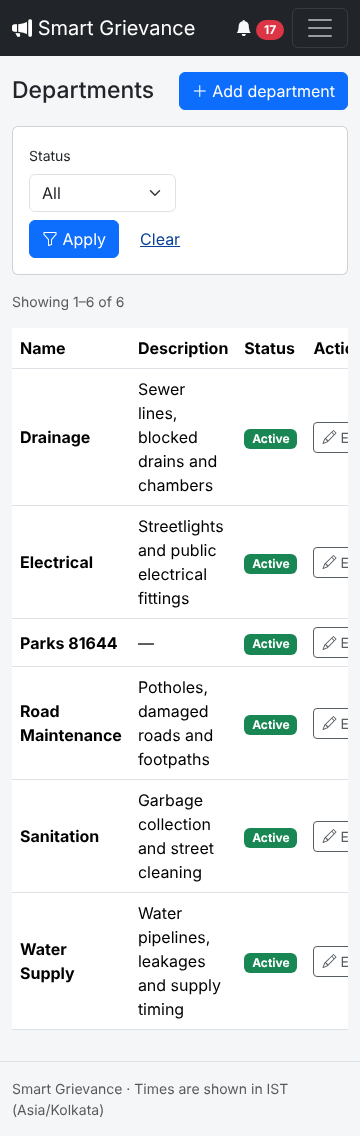
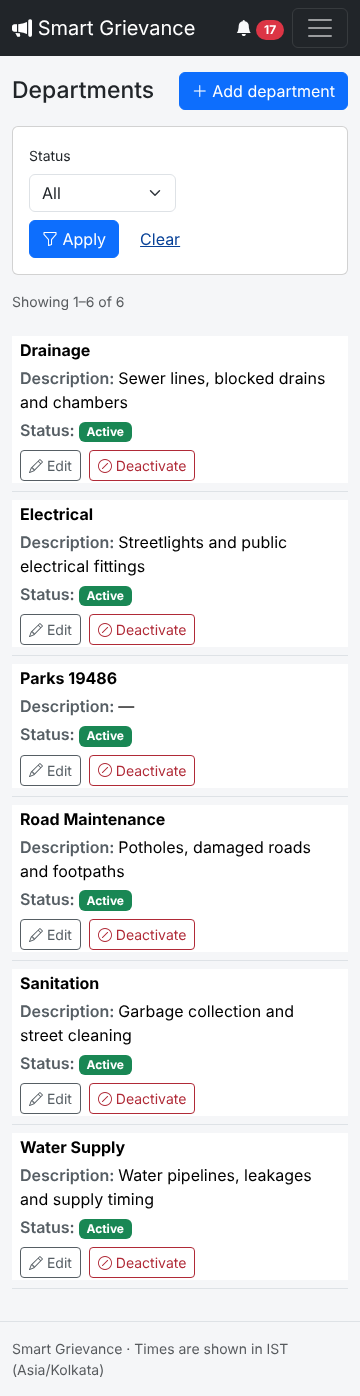
Fix admin tables on phones (V-3) and update validation documents
- Below 576 px the officer, citizen, department, category and area lists
  and the dashboard overdue list stack as labelled cards; action buttons
  wrap and stay on screen (D129, doc 10)
- TC-NF-04 and the walkthrough now fail when a table scrolls sideways or a
  link/button is off screen; quality sweep includes the admin lists
- Validation report, screenshots and results re-generated after all fixes
  (walkthrough 94/94); test report, changelog and decisions log updated

Claude-Session: https://claude.ai/code/session_011U9gUeiZpNCuo9rcRkJAzF

diff --git a/app/src/main/resources/templates/fragments/admin-users.html b/app/src/main/resources/templates/fragments/admin-users.html
@@ -41,7 +41,7 @@
     <p th:replace="~{fragments/admin-controls :: count(${page})}"></p>
     <p th:if="${page.items.isEmpty()}" th:text="${'No ' + title.toLowerCase() + ' match the current filters.'}"></p>
     <div class="table-responsive" th:unless="${page.items.isEmpty()}">
-        <table class="table table-hover align-middle">
+        <table class="table table-hover align-middle table-stack">
             <caption class="visually-hidden" th:text="${title}"></caption>
             <thead><tr>
                 <th scope="col">Name</th>
@@ -54,18 +54,18 @@
             <tbody>
             <tr th:each="row : ${page.items}" th:with="itemUrl=${base + '/' + row.id}">
                 <th scope="row" th:text="${row.fullName}"></th>
-                <td th:text="${row.email}"></td>
-                <td>
+                <td data-label="Email" class="text-break" th:text="${row.email}"></td>
+                <td data-label="Mobile">
                     <span th:text="${row.mobile}"></span>
                     <span th:if="${!staff and !row.mobileVerified}" class="badge text-bg-warning">
                         <i class="bi bi-phone" aria-hidden="true"></i> Not verified
                     </span>
                 </td>
-                <td th:if="${staff}" th:text="${row.departmentName ?: '—'}"></td>
-                <td th:unless="${staff}" th:text="${@fmt.date(row.createdAt.toLocalDate())}"></td>
-                <td><span th:replace="~{fragments/admin-controls :: status(${row.active})}"></span></td>
-                <td class="text-nowrap">
-                    <div class="d-flex gap-2">
+                <td th:if="${staff}" data-label="Department" th:text="${row.departmentName ?: '—'}"></td>
+                <td th:unless="${staff}" data-label="Registered" th:text="${@fmt.date(row.createdAt.toLocalDate())}"></td>
+                <td data-label="Status"><span th:replace="~{fragments/admin-controls :: status(${row.active})}"></span></td>
+                <td class="text-nowrap table-stack-actions">
+                    <div class="d-flex flex-wrap gap-2">
                         <a th:if="${staff}" class="btn btn-sm btn-outline-secondary" th:href="@{${itemUrl + '/edit'}}">
                             <i class="bi bi-pencil" aria-hidden="true"></i> Edit
                         </a>

diff --git a/app/src/main/resources/templates/admin/dashboard.html b/app/src/main/resources/templates/admin/dashboard.html
@@ -52,10 +52,10 @@
                 </div>
                 <p class="card-body pt-0 mb-0 text-body-secondary" th:if="${dash.overdue.isEmpty()}">No overdue complaints.</p>
                 <div class="table-responsive" th:unless="${dash.overdue.isEmpty()}">
-                    <table class="table table-sm mb-0 table-complaints">
+                    <table class="table table-sm mb-0 table-complaints table-stack">
                         <thead class="table-light"><tr>
                             <th scope="col">Complaint</th>
-                            <th scope="col" class="d-none d-sm-table-cell">Department</th>
+                            <th scope="col">Department</th>
                             <th scope="col">Status</th>
                             <th scope="col" class="text-end"><abbr title="Days since submission / SLA days">Days / SLA</abbr></th>
                         </tr></thead>
@@ -63,11 +63,11 @@
                         <tr th:each="item : ${dash.overdue}">
                             <td><a class="complaint-no" th:href="@{/complaints/{no}(no=${item.complaintNo})}" th:text="${item.complaintNo}">GRV</a>
                                 <div class="small text-body-secondary" th:text="${item.title}">Title</div></td>
-                            <td class="d-none d-sm-table-cell">
+                            <td data-label="Department">
                                 <span th:if="${item.departmentName != null}" th:text="${item.departmentName}">Department</span>
                                 <em th:unless="${item.departmentName != null}">Not assigned</em></td>
-                            <td><span th:replace="~{fragments/status-badge :: badge(${item.status})}"></span></td>
-                            <td class="text-end"><span class="badge-status badge-overdue"
+                            <td data-label="Status"><span th:replace="~{fragments/status-badge :: badge(${item.status})}"></span></td>
+                            <td class="text-end" data-label="Days / SLA"><span class="badge-status badge-overdue"
                                     th:text="|${item.daysElapsed} / ${item.slaDays}|"
                                     th:title="|${item.daysOverdue} days overdue|">0 / 0</span></td>
                         </tr>

diff --git a/app/src/main/resources/templates/fragments/admin-master.html b/app/src/main/resources/templates/fragments/admin-master.html
@@ -20,7 +20,7 @@
     <p th:if="${page.items.isEmpty()}" th:text="${filter.active == null
             ? 'No ' + title.toLowerCase() + ' yet.' : 'No ' + title.toLowerCase() + ' match the filter.'}"></p>
     <div class="table-responsive" th:unless="${page.items.isEmpty()}">
-        <table class="table table-hover align-middle">
+        <table class="table table-hover align-middle table-stack">
             <caption class="visually-hidden" th:text="${title}"></caption>
             <thead><tr>
                 <th scope="col">Name</th>
@@ -31,16 +31,16 @@
             </tr></thead>
             <tbody><tr th:each="row : ${page.items}" th:with="itemUrl=${base + '/' + row.id}">
                 <th scope="row" th:text="${row.name}"></th>
-                <td th:if="${kind == 'category'}">
+                <td th:if="${kind == 'category'}" data-label="Default department">
                     <span th:text="${row.defaultDepartmentName ?: 'Admin decides'}"></span>
                     <span class="badge text-bg-warning"
                           th:if="${row.defaultDepartmentName != null and !row.defaultDepartmentActive}">Inactive</span>
                 </td>
-                <td th:unless="${kind == 'category'}" th:text="${row.description ?: '—'}"></td>
-                <td th:if="${kind == 'category'}" th:text="${row.slaDays}"></td>
-                <td><span th:replace="~{fragments/admin-controls :: status(${row.active})}"></span></td>
-                <td class="text-nowrap">
-                    <div class="d-flex gap-2">
+                <td th:unless="${kind == 'category'}" th:attr="data-label=${kind == 'area' ? 'Ward office' : 'Description'}" th:text="${row.description ?: '—'}"></td>
+                <td th:if="${kind == 'category'}" data-label="SLA days" th:text="${row.slaDays}"></td>
+                <td data-label="Status"><span th:replace="~{fragments/admin-controls :: status(${row.active})}"></span></td>
+                <td class="text-nowrap table-stack-actions">
+                    <div class="d-flex flex-wrap gap-2">
                         <a class="btn btn-sm btn-outline-secondary" th:href="@{${itemUrl + '/edit'}}">
                             <i class="bi bi-pencil" aria-hidden="true"></i> Edit
                         </a>

diff --git a/app/e2e/tests/quality.spec.ts b/app/e2e/tests/quality.spec.ts
@@ -32,6 +32,11 @@ const screens: Screen[] = [
   { user: 'anita.deshmukh@example.com', path: `/officer/complaints/${original}/resolve` },
   { user: 'admin@example.com', password: 'Admin@1234', path: '/admin/dashboard' },
   { user: 'admin@example.com', password: 'Admin@1234', path: '/admin/complaints' },
+  { user: 'admin@example.com', password: 'Admin@1234', path: '/admin/officers' },
+  { user: 'admin@example.com', password: 'Admin@1234', path: '/admin/citizens' },
+  { user: 'admin@example.com', password: 'Admin@1234', path: '/admin/departments' },
+  { user: 'admin@example.com', password: 'Admin@1234', path: '/admin/categories' },
+  { user: 'admin@example.com', password: 'Admin@1234', path: '/admin/areas' },
 ];
 
 test('TC-NF-03, TC-NF-04, TC-SEC-30a the main screens are accessible, fit the viewport and keep the CSP', async ({ page, javaScriptEnabled }, testInfo) => {
@@ -54,6 +59,16 @@ test('TC-NF-03, TC-NF-04, TC-SEC-30a the main screens are accessible, fit the vi
 
     const overflow = await page.evaluate(() => document.documentElement.scrollWidth - window.innerWidth);
     expect(overflow, `sideways scroll on ${where}`).toBeLessThanOrEqual(0);
+    const offscreen = await page.evaluate(() => {
+      const width = window.innerWidth;
+      const clipped = [...document.querySelectorAll('main .table-responsive')].filter((el) => el.scrollWidth > el.clientWidth + 1).length;
+      const hidden = [...document.querySelectorAll('main a, main button')]
+        .filter((el) => el.offsetParent !== null && el.getBoundingClientRect().right > width + 1)
+        .map((el) => el.textContent.trim().replace(/\s+/g, ' ').slice(0, 40));
+      return { clipped, hidden };
+    });
+    expect(offscreen.clipped, `tables scrolling sideways on ${where}`).toBe(0);
+    expect(offscreen.hidden, `links/buttons off screen on ${where}`).toEqual([]);
     // the verify page uses the public layout without a navbar
     if (screen.user && screen.path !== '/verify-mobile' && page.viewportSize()!.width <= 400) {
       await expect(page.getByRole('link', { name: /^Notifications,/ }), `bell on ${where}`).toBeVisible();

diff --git a/app/src/main/resources/static/css/app.css b/app/src/main/resources/static/css/app.css
@@ -238,3 +238,15 @@ form.is-submitting [type=submit] { pointer-events: none; opacity: .65; }
 .btn-outline-secondary { --bs-btn-color: #565e64; --bs-btn-border-color: #565e64; }
 .btn-outline-success { --bs-btn-color: #146c43; --bs-btn-border-color: #146c43; }
 .btn-outline-danger { --bs-btn-color: #b02a37; --bs-btn-border-color: #b02a37; }
+
+/* Phone layout for admin tables (NFR-20, extends D51): below 576 px each row becomes a labelled card so every
+   column and the action buttons stay on screen instead of scrolling sideways. Labels come from data-label. */
+@media (max-width: 575.98px) {
+  .table-stack thead { position: absolute; width: 1px; height: 1px; overflow: hidden; clip-path: inset(50%); white-space: nowrap; }
+  .table-stack, .table-stack tbody, .table-stack tr, .table-stack th, .table-stack td { display: block; width: 100%; }
+  .table-stack tr { border-bottom: 1px solid var(--bs-border-color); padding: .5rem 0; }
+  .table-stack th, .table-stack td { border: 0; padding: .125rem .5rem; text-align: start !important; }
+  .table-stack td[data-label]::before { content: attr(data-label) ": "; font-weight: 600; color: #565e64; }
+  .table-stack td { overflow-wrap: anywhere; }
+  .table-stack .table-stack-actions { white-space: normal !important; padding-top: .375rem; }
+}

diff --git a/docs/validation/validation-report.md b/docs/validation/validation-report.md
@@ -5,15 +5,15 @@
 | Date | 23-Nov-2026 |
 | Code | `main` at `5f64d48` (merge of #10) plus the two fixes below |
 | Environment | JDK 25.0.5, MySQL 8.0, Chromium (Playwright 1.65), Linux |
-| Result | **All automated suites green; independent walkthrough 94/94 checks; 2 defects found and fixed** |
+| Result | **All automated suites green; independent walkthrough 94/94 checks; 3 defects found and fixed, then re-validated** |
 
 ## 1. How the project was validated
 
 | Layer | What ran | Result |
 |---|---|---|
-| Automated, H2 | `./mvnw clean verify`: unit, repository, web, HTTP and scan tests + JaCoCo gates | **1,403 passed**, 0 failed, coverage gates met |
+| Automated, H2 | `./mvnw clean verify`: unit, repository, web, HTTP and scan tests + JaCoCo gates | **1,403 passed**, 0 failed, coverage gates met (after all fixes) |
 | Automated, MySQL | `./mvnw verify -Pmysql`: every query test class on MySQL, concurrency, unique keys, 10,000-complaint performance and `EXPLAIN` | **117 passed**, 0 failed; every page under 100 ms median at 10k complaints |
-| Automated, browser | `./mvnw verify -Pe2e`: Playwright, JavaScript on and off, 360 and 1280 px, axe-core, CSP | **81 passed**, 15 skipped (JS-only or no-JS-only checks), 0 failed |
+| Automated, browser | `./mvnw verify -Pe2e`: Playwright, JavaScript on and off, 360 and 1280 px, axe-core, CSP, off-screen controls | **81 passed**, 15 skipped (JS-only or no-JS-only checks), 0 failed (after all fixes) |
 | Independent walkthrough | [`walkthrough.mjs`](walkthrough.mjs) against the packaged JAR with the `dev` profile on MySQL and the Appendix A demo data, exactly as at the viva: use case by use case, error by error, screen by screen | **94/94 passed** ([raw results](walkthrough-results.json)) |
 
 The walkthrough is independent of the automated suites: it drives the real browser through the UI the way a citizen, officer and administrator would, on MySQL rather than H2, and checks the visible result of every step.
@@ -22,7 +22,7 @@ The walkthrough is independent of the automated suites: it drives the real brows
 
 | UC | Flow checked | Result | Evidence |
 |---|---|:-:|---|
-| UC-01 | Register as citizen (main + duplicate email + weak password) | ✅ | registered priya.1795424181644@example.com; field errors for taken email and short password |
+| UC-01 | Register as citizen (main + duplicate email + weak password) | ✅ | registered priya.1795425819486@example.com; field errors for taken email and short password |
 | UC-04 | Verify mobile with OTP (wrong code, resend cooldown, correct code) | ✅ | wrong code counted down; resend disabled and refused by the server inside the cooldown; correct code verified |
 | UC-02 | Log in / log out (role landing, wrong password, inactive, lockout, logout) | ✅ | three roles land on their homes; generic error for wrong password and inactive officer; lockout after 5 failures |
 | UC-03 | Change own password (wrong current, mismatch, success, old password rejected) | ✅ | errors shown for wrong current / mismatch; new password works, old refused |
@@ -42,9 +42,9 @@ The walkthrough is independent of the automated suites: it drives the real brows
 | UC-32 | Add progress remark | ✅ |  |
 | UC-33 | Resolve (with work-done file) and optimistic-lock conflict on a stale form | ✅ | first resolve wins; second (stale version) gets the "updated by someone else" message |
 | UC-34 | Send complaint back to the admin (wrong department) | ✅ | GRV-2026-000005 back to Under Review; Drainage officer loses access (404) |
-| UC-22 | Reject (reason required; officer rejection is covered by TC-UC-22b/c) | ✅ | GRV-2026-000008 rejected with a reason; owner sees Rejected |
-| UC-40/41/42 | Manage departments, categories, areas (create, duplicate name, deactivate, guard) | ✅ | Parks 81644 + category created; duplicate name refused; deactivating a default department refused |
-| UC-43 | Manage officer accounts (create, duplicate email, login as new officer) | ✅ | officer.1795424181644@example.com created after a duplicate-email error and can log in to the Water Supply queue |
+| UC-22 | Reject (reason required) (reason required; officer rejection is covered by TC-UC-22b/c) | ✅ | GRV-2026-000008 rejected with a reason; owner sees Rejected |
+| UC-40/41/42 | Manage departments, categories, areas (create, duplicate name, deactivate, guard) | ✅ | Parks 19486 + category created; duplicate name refused; deactivating a default department refused |
+| UC-43 | Manage officer accounts (create, duplicate email, login as new officer) | ✅ | officer.1795425819486@example.com created after a duplicate-email error and can log in to the Water Supply queue |
 | UC-44 | Manage citizen accounts (deactivate → login refused, reactivate, reset password) | ✅ | deactivated citizen cannot log in; reactivated; admin reset password works |
 | UC-50 | Admin dashboard and reports (cards link to matching lists, CSV export) | ✅ | Total 13 = CSV rows; Pending card 2 opens matching list; chart rendered |
 | UC-51 | Officer summary cards | ✅ | Assigned 0 · In Progress 1 · Reopened 0 · Awaiting citizen 0 · Closed 0 · Rejected 0 · Duplicate 2 · Withdrawn 0 · Overdue 0 |
@@ -70,7 +70,7 @@ The walkthrough is independent of the automated suites: it drives the real brows
 
 ## 4. Screens
 
-Every screen of doc 10 was opened at 1280 px and 360 px. Each check asserts: the page renders, **no sideways scroll**, **no JavaScript error**, **no CSP violation**, and at 1280 px **0 axe-core violations** (WCAG 2.1 A/AA). SCR-92 (500 page) is covered by TC-VE-14 because a running build has no safe way to raise a server error.
+Every screen of doc 10 was opened at 1280 px and 360 px. Each check asserts: the page renders, **no sideways scroll**, **no table that has to be scrolled sideways and no link or button off screen** (added after V-3), **no JavaScript error**, **no CSP violation**, and at 1280 px **0 axe-core violations** (WCAG 2.1 A/AA). SCR-92 (500 page) is covered by TC-VE-14 because a running build has no safe way to raise a server error.
 
 | Screen | Page | 1280 px | 360 px | Screenshots |
 |---|---|:-:|:-:|---|
@@ -107,9 +107,10 @@ Every screen of doc 10 was opened at 1280 px and 360 px. Each check asserts: the
 | # | Defect | Severity | Found by | Fix | Regression test |
 |---|---|---|---|---|---|
 | V-1 | **Edit revisions were not shown in the timeline (FR-17).** The "Complaint edited" entry rendered an empty list, so neither the citizen nor staff could see which field changed or its old and new value; the revisions were stored correctly. Cause: `th:switch` on the same `<li>` as `th:each` in `fragments/timeline.html` left every item empty. | Medium (requirement not visible to users) | UC-11 walkthrough | `th:if` conditions instead of the switch | `TimelineRevisionWebTest` (TC-UC-11a, FR-17): fails before, passes after |
+| V-3 | **Admin tables were cut off on phones (NFR-20).** At 360 px the officer, citizen, department, category and area lists showed only the first columns; the status and every action button (Edit, Deactivate, Reset password) were off screen and reachable only by scrolling the table sideways, and long emails were cut. The dashboard's overdue table clipped its "Days / SLA" column. Found by looking at the walkthrough screenshots; the earlier automated check only measured page-level scrolling, which a `.table-responsive` hides. | Medium (admin work on a phone was impractical) | Screenshot review of SCR-40, 44, 48, 50 at 360 px | Below 576 px these tables stack each row as a labelled card and wrap the action buttons (`.table-stack`, `data-label`, D129) | New off-screen check in TC-NF-04 (`quality.spec.ts`, now also sweeping the five admin lists) and in the walkthrough: on the old build it reported 24 hidden controls on Officers, 11 on Citizens, 14 on Categories and a clipped dashboard table; 0 after the fix |
 | V-2 | **An encoded slash (`%2F`) in the URL got Tomcat's plain "HTTP Status 400" page** instead of the application's 400 page used for every other rejected request (doc 12 D85). No information was leaked and the request was refused either way. | Low (consistency) | E-400 walkthrough | `TomcatConfig` passes `%2F` through so Spring Security's firewall rejects it and the app's page is shown | `CookieAndFirewallHttpTest` TC-SEC-33 (encoded slash, encoded `..`, double slash): fails before, passes after |
 
-The automated suites had missed both: no test checked the rendered change text of an edit, and the firewall test did not use an encoded slash.
+The automated suites had missed all three: no test checked the rendered change text of an edit, the firewall test did not use an encoded slash, and the phone-layout check looked only at page-level scrolling.
 
 ## 6. Behaviour confirmed as designed (not defects)
 

diff --git a/docs/specs/10-ui-screen-spec.md b/docs/specs/10-ui-screen-spec.md
@@ -33,6 +33,7 @@ This document says what every user sees. It builds only on the routes, view name
 | Works from **360 px** wide to desktop | Bootstrap 5.3.8 grid, `container-lg`, breakpoints `sm` 576, `md` 768, `lg` 992. Every page is designed for 360 px first, then widened. |
 | No horizontal page scroll at 360 px | Long values (`overflow-wrap: anywhere` on titles and remarks), complaint numbers and dates kept on one line. Wide admin tables sit in `.table-responsive`, so only the table scrolls, never the page. Checked on the mock-ups (§10). |
 | Complaint lists | **Stacked list** (`list-group`) below `md`, **table** from `md` up, both rendered by the same fragment loop (D51). |
+| Admin tables (SCR-42, 44, 46, 48, 50, SCR-40 overdue list) | Below `sm` (576 px) each row is shown as a labelled card (`.table-stack`, labels from `data-label`) with its action buttons wrapping underneath; a normal table from `sm` up (D129). No table may scroll sideways on a phone. |
 | Touch targets | Buttons and links in lists at least 44 × 44 px on phones (`.btn` default size; the whole list item is the link). Action buttons wrap two per row on phones (`.action-bar`). |
 | Navbar | `navbar-expand-md`: collapsed behind a toggler on phones. The bell stays visible next to the toggler at every width. |
 
@@ -1427,3 +1428,4 @@ Run on 2026-11-22. All scripts are kept under `docs/specs/verify/` so they can b
 | 2026-11-23 | Doc 12 alignment: U3, U4, U5 decided (D77, D83, D85, D87); where texts live (§8.1) |
 | 2026-11-23 | Doc 13 alignment: U7, U8, U10 decided (D99) |
 | 2026-11-23 | Doc 14 alignment: U9 decided (D109, D110) |
+| 2026-11-23 | Validation finding V-3: admin tables stack as labelled cards below 576 px so actions stay on screen (D129) |

diff --git a/docs/specs/00-specification-plan.md b/docs/specs/00-specification-plan.md
@@ -202,6 +202,7 @@ arya_project/
 | D125 | In which order is the app built? | Ten milestones **M0–M9** (skeleton/CI, auth+OTP, master data, submit/edit/withdraw+files, tracking, workflow, duplicates/watchers, notifications, dashboard/reports, hardening/e2e/viva); every one of the 446 test cases, 70 FRs and 99 routes belongs to exactly one milestone, checked by `verify/check-14-milestones.py`. `TransitionRules` and `ComplaintAccessPolicy` are written complete in M3; `DemoData` grows per milestone and is complete in M6. |
 | D126 | JVM options, port, context path? | `-Xms128m` (laptop) / `256m` (server), `-Xmx512m`, `-XX:+ExitOnOutOfMemoryError` (server, Docker), `-XX:MaxRAMPercentage=75` in Docker; `-Duser.timezone` not needed (D18, D116); port 8080 (`SERVER_PORT`), context path `/`. |
 | D127 | O5: demo sample files? | Two small JPEGs for GRV-…-000003 in `src/main/resources/seed/files/` (made by the students, ≤ 100 KB, EXIF removed); `DemoData` copies them to `app.upload.dir` with the BR-24 name inside its transaction and deletes them on rollback. |
+| D129 | Admin tables on phones? (validation finding V-3) | Below 576 px the admin tables (officers, citizens, departments, categories, areas, dashboard overdue list) stack each row as a labelled card (`.table-stack` + `data-label`), so every column and every action button stays on screen; extends D51. TC-NF-04 and the walkthrough now fail when a table scrolls sideways or a link or button is off screen. |
 | D128 | Copies of spec files in the app? | `db/migration/*.sql`, `messages.properties` and `common-passwords.txt` (new draft, 34 entries) are byte-identical copies of the docs; a CI step `diff`s them, so a change is always made in the spec first. |
 
 ## Status

diff --git a/docs/reports/test-report-1.0.0.md b/docs/reports/test-report-1.0.0.md
@@ -100,3 +100,8 @@ Target: under 2,000 ms (NFR-10). Repeat `./mvnw verify -Pmysql` on the reference
 ## Open defects
 
 None known.
+
+## Re-validation after the validation fixes (23-Nov-2026)
+
+The independent validation (`docs/validation/validation-report.md`) found three defects (V-1 timeline revisions, V-2 encoded-slash 400 page, V-3 admin tables on phones); all were fixed with regression checks. Re-run afterwards: `./mvnw clean verify -Pmysql` **1,403 H2 + 117 MySQL tests**, 0 failed, coverage gates met; `-Pe2e` **81 passed**, 15 skipped, 0 failed; walkthrough **94/94**.
+

diff --git a/CHANGELOG.md b/CHANGELOG.md
@@ -6,6 +6,7 @@
 
 - The complaint timeline now lists every edited field with its old and new value; the edit entry was empty before (FR-17).
 - An encoded slash in the URL now gets the application's own 400 page instead of the server's plain one.
+- Admin lists (officers, citizens, departments, categories, areas) and the dashboard's overdue list stack as labelled cards on phones, so every column and action button stays on screen.
 
 ### Added
 
